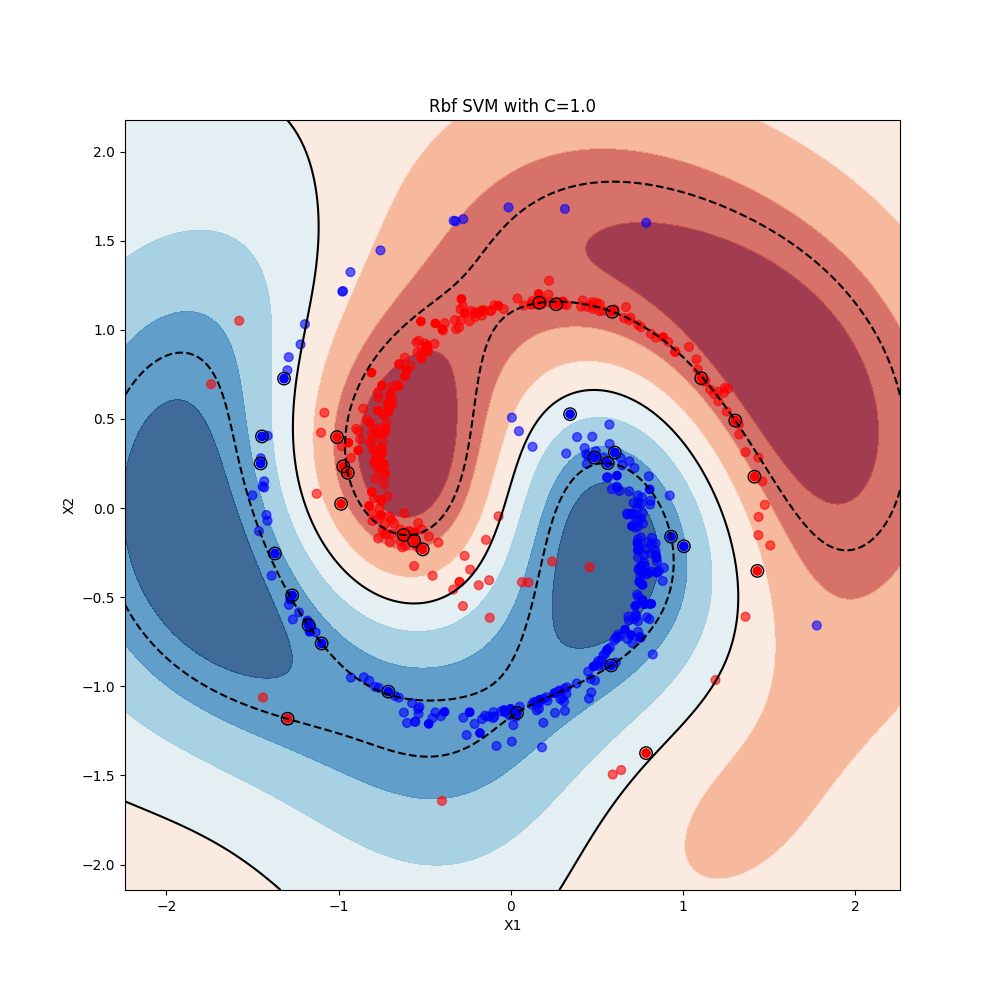
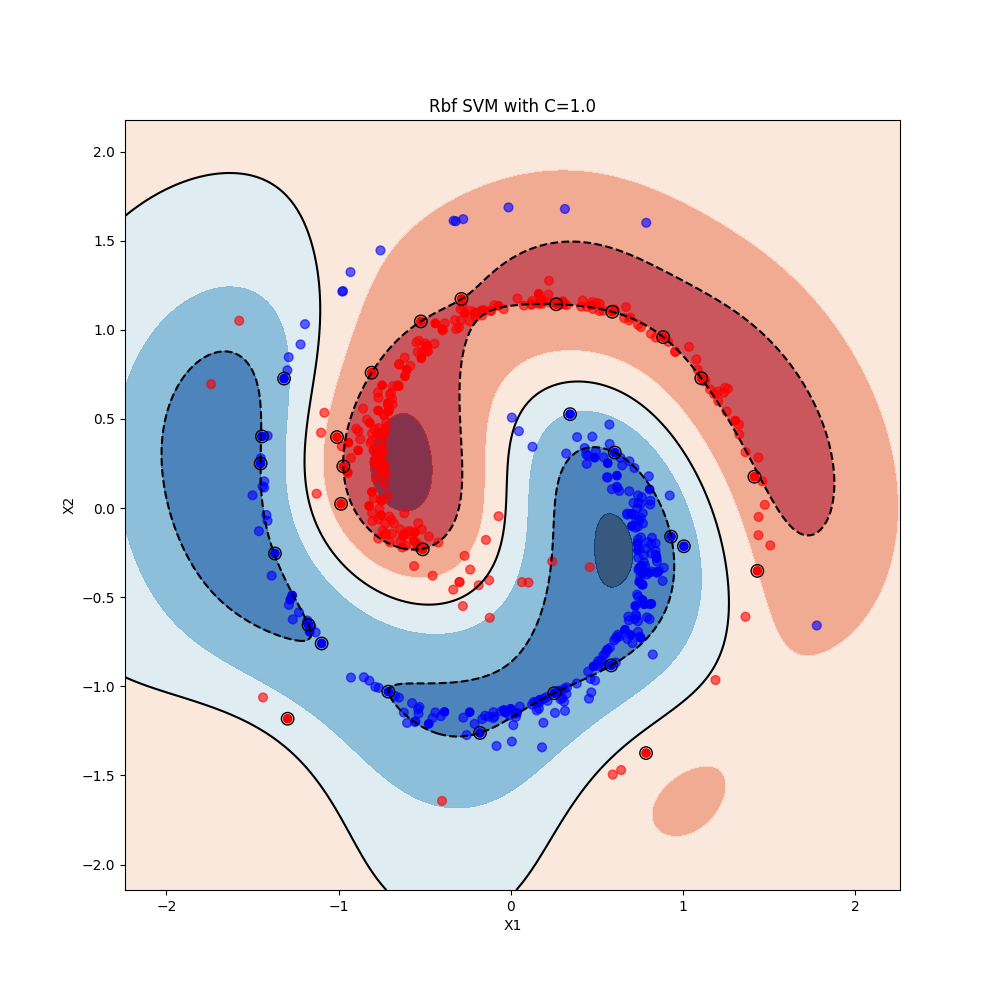
Finished ass3.

diff --git a/Assignment3/latex/main.tex b/Assignment3/latex/main.tex
@@ -202,7 +202,7 @@ Plot the decision boundary and support vectors for the kernel with the highest t
 \hfill
 \begin{minipage}{0.4\textwidth}
   \includegraphics[scale=0.30]{plots/ex2b_2.png}
-  \captionof{figure}{Decision boundary and support vectors for the kernel with the highest test score. \textcolor{red}{[ntbd]}}
+  \captionof{figure}{Decision boundary and support vectors for the kernel with the highest test score.}
   \label{fig:11}
 \end{minipage}
 \end{figure}
@@ -214,7 +214,6 @@ Degree 9 produces the Highest Test Score 0.9575
 \newpage
 
 \item Fill in function ex\_2\_c in file svm.py to repeat the above steps for an RBF kernel with values of $\gamma = 0.01, 0.03, . . . , 1.97, 1.99$. Plot the variation of training and testing score with the value of $\gamma$ using the function plot\_score\_vs\_gamma in file svm\_plot.py. Plot the decision boundary and support vectors for the kernel with the highest test score using plot\_svm\_decision\_boundary.
-\newline \newline
 
 \begin{figure}[htp]
 \centering
@@ -250,13 +249,13 @@ A Gamma value of 1.85 produces the Highest Test Score 0.9425
 \end{tabular}
 \caption{Highest Test Score for different Kernel Types}
 \end{table}
-\item Which of the considered kernels performs best and why?\newline
-Of the three kernel types, the kernel type \textit{poly} scored the highest score because \textcolor{red}{[ntbd]} it's logical 
-\item Compare the complexity of decision boundaries and the number of Support Vectors found.\newline
- \textcolor{red}{[ntbd]}
-\item Which kernel generalizes best for the given dataset?\newline
-For the given dataset the poly Kernel generalizes best
-\textcolor{red}{[ntbd]}
+\item \textbf{Which of the considered kernels performs best and why?} \newline
+Of the three kernel types, the kernel type \textit{poly} scored the highest score because it focuses on classifying data points corresponding to the same class as possible. Which performs better in the general way while the rbf kernel focuses on classifying data points on the most occurrence of data points of the same class. So this is better for striking features. 
+\item \textbf{Compare the complexity of decision boundaries and the number of Support Vectors found.} \newline
+The decision boundary for the \textit{linear} kernel is the less complex than the other kernels, while the \textit{rbf} kernel is the most complex one. The \textit{rbf} kernel got the most support vectors while the number of the support vectors of the other kernels is the same.
+
+\item \textbf{Which kernel generalizes best for the given dataset?} \newline
+For the given dataset the poly Kernel generalizes best.
 \end{enumerate}
 \end{itemize}
 
@@ -265,24 +264,64 @@ For the given dataset the poly Kernel generalizes best
 \newpage
 \section{Multiclass classification}
 For this task you will use a linear SVM as a binary classifier to solve a multiclass problem. For this purpose use the data file data\_mnist.json which contains training $(X, Y )$ and test $(XT, Y T)$ sets of handwritten digits. To simplify the problem we consider only the first $5$ digits: $1, . . . , 5$. Each data sample in $X$ (a handwritten digit) is an image of $28 \times 28$ pixels. Note that here the labels are not binary, but rather each data sample belongs to one of the $5$ classes. Load the data file and plot several data samples to see handwritten digits (use plot\_mnist). The goal of this task is to use the one-vs-all approach with SVM for multiclass classification in order to recognize digits. In all simulations of this task use the parameter $C = 10$. 
-In function ex\_3 in file svm\_main.py the data points are first loaded from the data file and plotted so that we can observe the structure of the MNIST dataset. Do the following:
+In function ex\_3 in file svm\_main.py the data points are first loaded from the data file and plotted so that we can observe the structure of the MNIST dataset.
+
+\begin{figure}[htp]
+\centering
+  \includegraphics[scale=0.38]{plots/ex3.png}
+  \captionof{figure}{Dataset with handwritten digits.}
+  \label{fig:14}
+\end{figure}
+
+Do the following:
 \begin{enumerate}[label=(\alph*)]
 \item In function ex\_3\_a in the file svm.py, use the scikit learn implementation of one-versus-rest multiclass classification. This is done by specifying the argument $decision\_function\_shape='ovr'$ when creating the classifier object. Train the classifier on the MNIST dataset for a LINEAR kernel and a RBF kernel with gamma ranging from $10^5$ to $10^{−5}$ (plot this for $10$ values of gammas in between). Plot the results with plot\_score\_vs\_gamma, and specify the score obtained with a linear kernel using the optional argument lin\_score\_train. Note that the chance level has changed for this example.
+
+\begin{figure}[htp]
+\centering
+  \includegraphics[scale=0.38]{plots/ex3a.png}
+  \captionof{figure}{Classifier on the MNIST dataset for a LINEAR kernel and a RBF kernel with gamma ranging from $10^5$ to $10^{−5}$}
+  \label{fig:15}
+\end{figure}
+
+In the results of variation between the \textit{rbf} kernel and the \textit{linear} kernel the \textit{linear} kernel performs better than the \textit{rbf} one because it just differentiate between lighter and darker colors.
+
+\newpage
+
 \item In function ex\_3\_b in the file svm.py, train a multi-class SVC with a linear kernel. Use the function confusion\_matrix from scikit-learn to get the confusion matrix. Plot the confusion matrix with plot\_confusion\_matrix. Plot the first $10$ images from the test set of the most misclassified digit using plot\_mnist. (For example, if digit 3 is the most misclassified digit, plot the first $10$ images miss-classified as 3 in the test set)
+
+\begin{figure}[htp]
+\centering
+\begin{minipage}{0.4\textwidth}
+  \includegraphics[scale=0.5]{plots/ex3b_1.png}
+  \captionof{figure}{Confusion matrix.}
+  \label{fig:16}
+\end{minipage}
+\hfill
+\begin{minipage}{0.4\textwidth}
+  \includegraphics[scale=0.5]{plots/ex3b_2.png}
+  \captionof{figure}{$10$ images from the test set of the most misclassified digit.}
+  \label{fig:17}
+\end{minipage}
+\end{figure}
 
 \end{enumerate}
 In your report:
 \begin{itemize}
-\item Recall the algorithms ‘One-versus-Rest’ (or versus-all) and ‘One-versus-one’ multi-class classification
-procedures. How many binary classifiers need to be trained in both cases?
-\item Include plots for ex\_3\_a with the scores of a linear and a rbf kernels.
-\item Discuss those results. In particular why does a linear kernel perform well on images?
-\item Find the digit class for which you get the highest error rate.
-\item Include plots for ex\_3\_b of the confusion matrix and the first $10$ images from the test set of the most misclassified digit.
-\item With the help of these two plots, discuss why the classifier is doing these mistakes.
+\item \textbf{Recall the algorithms ‘One-versus-Rest’ (or versus-all) and ‘One-versus-one’ multi-class classification procedures. How many binary classifiers need to be trained in both cases?}
+
+The \textbf{one-versus-all} algorithm fits with one classifier per class. For each classifier the class is fitted against all other classes and is computational efficient because it only has to train n classes classifiers $\Rightarrow O(n)$.
+
+The \textbf{one-versus-one} algorithm concentrates on fitting one classifier per class pair. It is less computational efficient than the The one-versus-all because it has to train $n classes * (n classes - 1) / 2$ classifiers $\Rightarrow O(n^{2})$.
+
+\item \textbf{Find the digit class for which you get the highest error rate.} Digit class $5$ produces the highest error rate.
+
+\item \textbf{With the help of these two plots, discuss why the classifier is doing these mistakes.}
+The digit 3 is the most misclassified image. This might appear because some of the handwritten 1 and 3 digits are similar to the digit 5 and so the most misclassified class is 5.
 \end{itemize}
 
 \end{document}
+
 
 
 

diff --git a/Assignment3/svm.py b/Assignment3/svm.py
@@ -185,7 +185,7 @@ def ex_2_c(x_train, y_train, x_test, y_test):
     highest_testscore_index = np.argmax(test_score)
     gamma = gammas[highest_testscore_index]
     print("A Gamma value of " + str(gamma) + " produces the Highest Test Score " + str(highest_test_score))
-    svc.gamma = highest_test_score
+    svc.gamma = gamma
     svc.fit(x_train, y_train)
     plot_svm_decision_boundary(svc, x_train, y_train, x_test, y_test)
 
